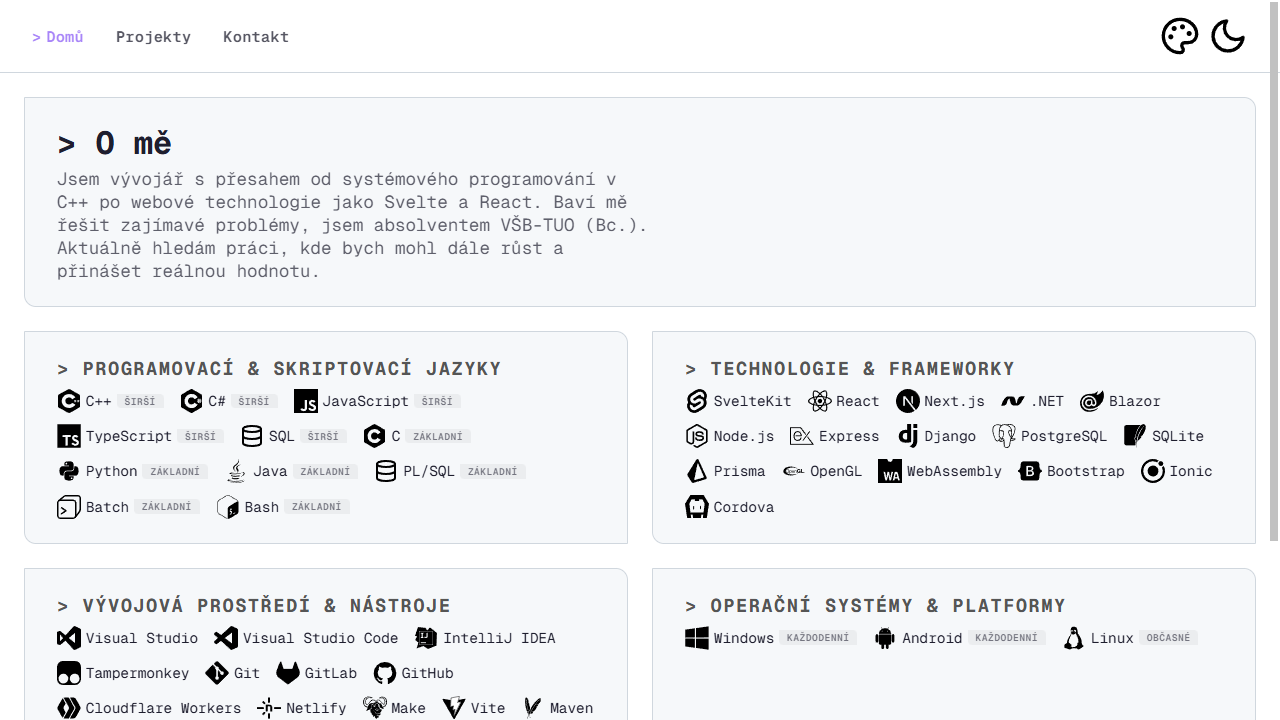
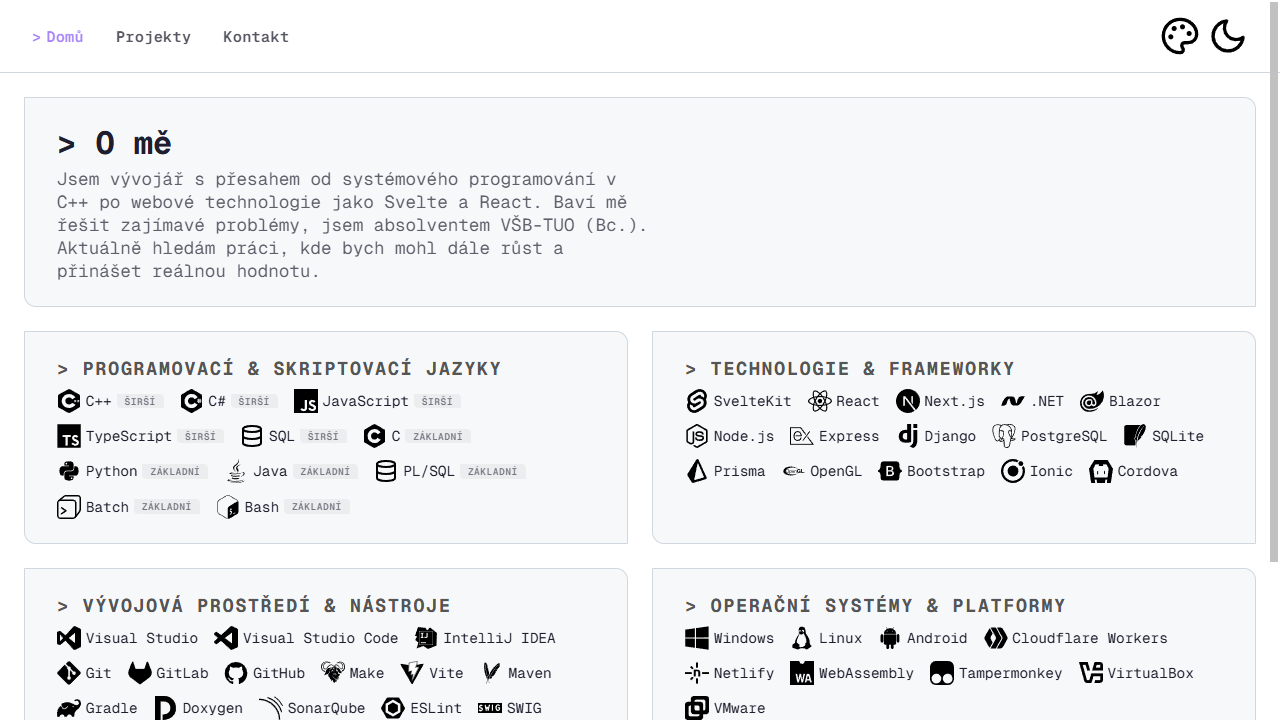
Reorder skill categories

diff --git a/src/routes/+page.svelte b/src/routes/+page.svelte
@@ -59,7 +59,6 @@
             <span class="skill-item"><span class="logo-wrapper"><img src={SQLiteLogo} alt="SQLite" class="custom-logo logo-default"/><img src={SQLiteLogoOriginal} alt="SQLite" class="custom-logo logo-hover"/></span> SQLite</span>
             <span class="skill-item"><span class="logo-wrapper"><img src={PrismaLogo} alt="Prisma" class="custom-logo logo-default"/><img src={PrismaLogoOriginal} alt="Prisma" class="custom-logo logo-hover"/></span> Prisma</span>
             <span class="skill-item"><span class="logo-wrapper"><img src={OpenGLLogo} alt="OpenGL" class="custom-logo logo-default"/><img src={OpenGLLogoOriginal} alt="OpenGL" class="custom-logo logo-hover"/></span> OpenGL</span>
-            <span class="skill-item"><span class="logo-wrapper"><img src={WebAssemblyLogo} alt="WebAssembly" class="custom-logo logo-default"/><img src={WebAssemblyLogoOriginal} alt="WebAssembly" class="custom-logo logo-hover"/></span> WebAssembly</span>
             <span class="skill-item"><span class="logo-wrapper"><img src={BootstrapLogo} alt="Bootstrap" class="custom-logo logo-default"/><img src={BootstrapLogoOriginal} alt="Bootstrap" class="custom-logo logo-hover"/></span> Bootstrap</span>
             <span class="skill-item"><span class="logo-wrapper"><img src={IonicLogo} alt="Ionic" class="custom-logo logo-default"/><img src={IonicLogoOriginal} alt="Ionic" class="custom-logo logo-hover"/></span> Ionic</span>
             <span class="skill-item"><span class="logo-wrapper"><img src={CordovaLogo} alt="Cordova" class="custom-logo logo-default"/><img src={CordovaLogoOriginal} alt="Cordova" class="custom-logo logo-hover"/></span> Cordova</span>
@@ -74,12 +73,9 @@
             <span class="skill-item"><span class="logo-wrapper"><img src={VisualStudioLogo} alt="Visual Studio" class="custom-logo logo-default"/><img src={VisualStudioLogoOriginal} alt="Visual Studio" class="custom-logo logo-hover"/></span> Visual Studio</span>
             <span class="skill-item"><span class="logo-wrapper"><img src={VisualStudioCodeLogo} alt="Visual Studio Code" class="custom-logo logo-default"/><img src={VisualStudioCodeLogoOriginal} alt="Visual Studio Code" class="custom-logo logo-hover"/></span> Visual Studio Code</span>
             <span class="skill-item"><span class="logo-wrapper"><img src={IntelliJIDEALogo} alt="IntelliJ IDEA" class="custom-logo logo-default"/><img src={IntelliJIDEALogoOriginal} alt="IntelliJ IDEA" class="custom-logo logo-hover"/></span> IntelliJ IDEA</span>
-            <span class="skill-item"><span class="logo-wrapper"><img src={TampermonkeyLogo} alt="Tampermonkey" class="custom-logo logo-default"/><img src={TampermonkeyLogoOriginal} alt="Tampermonkey" class="custom-logo logo-hover"/></span> Tampermonkey</span>
             <span class="skill-item"><span class="logo-wrapper"><img src={GitLogo} alt="Git" class="custom-logo logo-default"/><img src={GitLogoOriginal} alt="Git" class="custom-logo logo-hover"/></span> Git</span>
             <span class="skill-item"><span class="logo-wrapper"><img src={GitLabLogo} alt="GitLab" class="custom-logo logo-default"/><img src={GitLabLogoOriginal} alt="GitLab" class="custom-logo logo-hover"/></span> GitLab</span>
             <span class="skill-item"><span class="logo-wrapper"><img src={GitHubLogo} alt="GitHub" class="custom-logo logo-default"/><img src={GitHubLogoOriginal} alt="GitHub" class="custom-logo logo-hover"/></span> GitHub</span>
-            <span class="skill-item"><span class="logo-wrapper"><img src={CloudflareWorkersLogo} alt="Cloudflare Workers" class="custom-logo logo-default"/><img src={CloudflareWorkersLogoOriginal} alt="Cloudflare Workers" class="custom-logo logo-hover"/></span> Cloudflare Workers</span>
-            <span class="skill-item"><span class="logo-wrapper"><img src={NetlifyLogo} alt="Netlify" class="custom-logo logo-default"/><img src={NetlifyLogoOriginal} alt="Netlify" class="custom-logo logo-hover"/></span> Netlify</span>
             <span class="skill-item"><img src={MakeLogo} alt="Make" class="custom-logo logo-default"/> Make</span>
             <span class="skill-item"><span class="logo-wrapper"><img src={ViteLogo} alt="Vite" class="custom-logo logo-default"/><img src={ViteLogoOriginal} alt="Vite" class="custom-logo logo-hover"/></span> Vite</span>
             <span class="skill-item"><span class="logo-wrapper"><img src={MavenLogo} alt="Maven" class="custom-logo logo-default"/><img src={MavenLogoOriginal} alt="Maven" class="custom-logo logo-hover"/></span> Maven</span>
@@ -94,8 +90,6 @@
             <span class="skill-item"><span class="logo-wrapper"><img src={PuttyLogo} alt="PuTTY" class="custom-logo logo-default"/><img src={PuttyLogoOriginal} alt="PuTTY" class="custom-logo logo-hover"/></span> PuTTY</span>
             <span class="skill-item"><span class="logo-wrapper"><img src={WiresharkLogo} alt="Wireshark" class="custom-logo logo-default"/><img src={WiresharkLogoOriginal} alt="Wireshark" class="custom-logo logo-hover"/></span> Wireshark</span>
             <span class="skill-item"><span class="logo-wrapper"><img src={PacketTracerLogo} alt="Packet Tracer" class="custom-logo logo-default"/><img src={PacketTracerLogoOriginal} alt="Packet Tracer" class="custom-logo logo-hover"/></span> Packet Tracer</span>
-            <span class="skill-item"><span class="logo-wrapper"><img src={VirtualBoxLogo} alt="VirtualBox" class="custom-logo logo-default"/><img src={VirtualBoxLogoOriginal} alt="VirtualBox" class="custom-logo logo-hover"/></span> VirtualBox</span>
-            <span class="skill-item"><span class="logo-wrapper"><img src={VmwareLogo} alt="VMware" class="custom-logo logo-default"/><img src={VmwareLogoOriginal} alt="VMware" class="custom-logo logo-hover"/></span> VMware</span>
           </div>
         </div>
       </div>
@@ -104,9 +98,15 @@
         <div class="skills-section">
           <h3 class="heading"><span class="heading-prefix">></span> Operační systémy & platformy</h3>
           <div class="skill-items">
-            <span class="skill-item"><span class="logo-wrapper"><img src={WindowsLogo} alt="Windows" class="custom-logo logo-default"/><img src={WindowsLogoOriginal} alt="Windows" class="custom-logo logo-hover"/></span> Windows <span class="tag">každodenní</span></span>
-            <span class="skill-item"><span class="logo-wrapper"><img src={AndroidLogo} alt="Android" class="custom-logo logo-default"/><img src={AndroidLogoOriginal} alt="Android" class="custom-logo logo-hover"/></span> Android <span class="tag">každodenní</span></span>
-            <span class="skill-item"><span class="logo-wrapper"><img src={LinuxLogo} alt="Linux" class="custom-logo logo-default"/><img src={LinuxLogoOriginal} alt="Linux" class="custom-logo logo-hover"/></span> Linux <span class="tag">občasné</span></span>
+            <span class="skill-item"><span class="logo-wrapper"><img src={WindowsLogo} alt="Windows" class="custom-logo logo-default"/><img src={WindowsLogoOriginal} alt="Windows" class="custom-logo logo-hover"/></span>Windows</span>
+            <span class="skill-item"><span class="logo-wrapper"><img src={LinuxLogo} alt="Linux" class="custom-logo logo-default"/><img src={LinuxLogoOriginal} alt="Linux" class="custom-logo logo-hover"/></span> Linux</span>
+            <span class="skill-item"><span class="logo-wrapper"><img src={AndroidLogo} alt="Android" class="custom-logo logo-default"/><img src={AndroidLogoOriginal} alt="Android" class="custom-logo logo-hover"/></span> Android</span>
+            <span class="skill-item"><span class="logo-wrapper"><img src={CloudflareWorkersLogo} alt="Cloudflare Workers" class="custom-logo logo-default"/><img src={CloudflareWorkersLogoOriginal} alt="Cloudflare Workers" class="custom-logo logo-hover"/></span> Cloudflare Workers</span>
+            <span class="skill-item"><span class="logo-wrapper"><img src={NetlifyLogo} alt="Netlify" class="custom-logo logo-default"/><img src={NetlifyLogoOriginal} alt="Netlify" class="custom-logo logo-hover"/></span> Netlify</span>
+            <span class="skill-item"><span class="logo-wrapper"><img src={WebAssemblyLogo} alt="WebAssembly" class="custom-logo logo-default"/><img src={WebAssemblyLogoOriginal} alt="WebAssembly" class="custom-logo logo-hover"/></span> WebAssembly</span>
+            <span class="skill-item"><span class="logo-wrapper"><img src={TampermonkeyLogo} alt="Tampermonkey" class="custom-logo logo-default"/><img src={TampermonkeyLogoOriginal} alt="Tampermonkey" class="custom-logo logo-hover"/></span> Tampermonkey</span>
+            <span class="skill-item"><span class="logo-wrapper"><img src={VirtualBoxLogo} alt="VirtualBox" class="custom-logo logo-default"/><img src={VirtualBoxLogoOriginal} alt="VirtualBox" class="custom-logo logo-hover"/></span> VirtualBox</span>
+            <span class="skill-item"><span class="logo-wrapper"><img src={VmwareLogo} alt="VMware" class="custom-logo logo-default"/><img src={VmwareLogoOriginal} alt="VMware" class="custom-logo logo-hover"/></span> VMware</span>
           </div>
         </div>
       </div>
